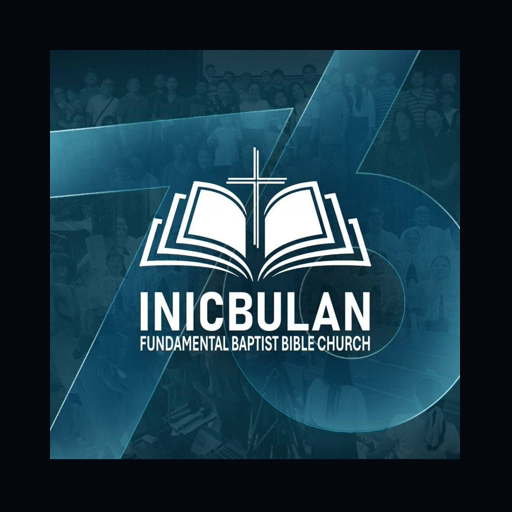
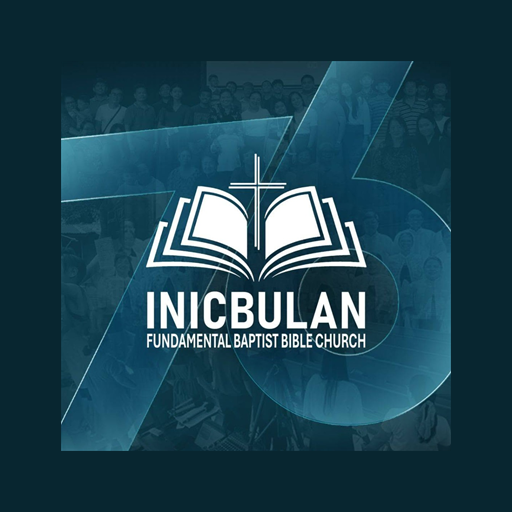
debugging installations

diff --git a/src/components/ServiceSchedule.tsx b/src/components/ServiceSchedule.tsx
@@ -102,6 +102,74 @@ const weeklyServices: WeeklyServiceItem[] = [
   },
 ];
 
+interface ScheduleTableEntry {
+  id: string;
+  day: string;
+  time: string;
+  service: string;
+  linkedCardId: string;
+  matchDay: string;
+}
+
+const scheduleTableEntries: ScheduleTableEntry[] = [
+  {
+    id: 'sun-lifegroup',
+    day: 'Sunday',
+    time: '9:00 AM',
+    service: 'Life Group',
+    linkedCardId: 'sun-lifegroup',
+    matchDay: 'Sunday',
+  },
+  {
+    id: 'sun-worship',
+    day: 'Sunday',
+    time: '10:00 AM',
+    service: 'Worship Service',
+    linkedCardId: 'sun-worship',
+    matchDay: 'Sunday',
+  },
+  {
+    id: 'sun-prayer-fasting',
+    day: 'Sunday',
+    time: '10:00 AM',
+    service: 'Prayer & Fasting Service (Quarterly)',
+    linkedCardId: 'sun-prayer-fasting',
+    matchDay: 'Sunday',
+  },
+  {
+    id: 'wed-prayer',
+    day: 'Wednesday',
+    time: '6:00 PM',
+    service: 'Prayer Meeting',
+    linkedCardId: 'wed-prayer',
+    matchDay: 'Wednesday',
+  },
+  {
+    id: 'fri-cottage',
+    day: 'Friday',
+    time: '6:00 PM',
+    service: 'Cottage Service',
+    linkedCardId: 'fri-cottage',
+    matchDay: 'Friday',
+  },
+  {
+    id: 'sat-paraiso',
+    day: 'Every 2nd Saturday',
+    time: '11:00 AM',
+    service: 'Paraiso Mission',
+    linkedCardId: 'sat-missions',
+    matchDay: 'Saturday',
+  },
+  {
+    id: 'sat-missions',
+    day: 'Saturday',
+    time: '2:00 PM',
+    service: 'Missions',
+    linkedCardId: 'sat-missions',
+    matchDay: 'Saturday',
+  },
+];
+
 // ── 3D Interactive Rectangular Carousel Card Component ──
 interface ScheduleCard3DProps {
   service: WeeklyServiceItem;
@@ -419,10 +487,28 @@ export const ServiceSchedule: React.FC<ServiceScheduleProps> = ({ onOpenVisit: _
     hasEventToday ? todayServices[0].id : null
   );
 
-  // Carousel State: 3 cards visible at a time
+  // Carousel State: responsive cards visible (1 on mobile, 2 on tablet, 3 on desktop)
+  const [cardsPerView, setCardsPerView] = useState(3);
   const [currentIndex, setCurrentIndex] = useState(0);
   const [isPaused, setIsPaused] = useState(false);
   const [isHoveringCard, setIsHoveringCard] = useState(false);
+
+  useEffect(() => {
+    const updateCardsPerView = () => {
+      if (typeof window === 'undefined') return;
+      if (window.innerWidth < 640) {
+        setCardsPerView(1);
+      } else if (window.innerWidth < 1024) {
+        setCardsPerView(2);
+      } else {
+        setCardsPerView(3);
+      }
+    };
+
+    updateCardsPerView();
+    window.addEventListener('resize', updateCardsPerView);
+    return () => window.removeEventListener('resize', updateCardsPerView);
+  }, []);
 
   // 3D Tilt for the Clicked/Expanded Modal Card itself
   const modalCardRef = useRef<HTMLDivElement>(null);
@@ -446,8 +532,13 @@ export const ServiceSchedule: React.FC<ServiceScheduleProps> = ({ onOpenVisit: _
     modalMouseY.set(0);
   };
 
-  // Maximum index so exactly 3 cards remain in view at end of line (6 items - 3 visible = maxIndex 3)
-  const maxIndex = Math.max(0, weeklyServices.length - 3);
+  // Maximum index so all cards remain accessible and viewable
+  const maxIndex = Math.max(0, weeklyServices.length - cardsPerView);
+
+  // Keep currentIndex bounded if cardsPerView changes
+  useEffect(() => {
+    setCurrentIndex((prev) => Math.min(prev, maxIndex));
+  }, [maxIndex]);
 
   const handleNext = useCallback(() => {
     setCurrentIndex((prev) => (prev >= maxIndex ? 0 : prev + 1));
@@ -456,6 +547,31 @@ export const ServiceSchedule: React.FC<ServiceScheduleProps> = ({ onOpenVisit: _
   const handlePrev = useCallback(() => {
     setCurrentIndex((prev) => (prev <= 0 ? maxIndex : prev - 1));
   }, [maxIndex]);
+
+  // Touch swipe gesture listeners for mobile & tablet screens
+  const touchStartXRef = useRef<number | null>(null);
+  const touchStartYRef = useRef<number | null>(null);
+
+  const handleTouchStart = (e: React.TouchEvent) => {
+    touchStartXRef.current = e.touches[0].clientX;
+    touchStartYRef.current = e.touches[0].clientY;
+  };
+
+  const handleTouchEnd = (e: React.TouchEvent) => {
+    if (touchStartXRef.current === null || touchStartYRef.current === null) return;
+    const deltaX = touchStartXRef.current - e.changedTouches[0].clientX;
+    const deltaY = touchStartYRef.current - e.changedTouches[0].clientY;
+
+    if (Math.abs(deltaX) > 40 && Math.abs(deltaX) > Math.abs(deltaY)) {
+      if (deltaX > 0) {
+        handleNext();
+      } else {
+        handlePrev();
+      }
+    }
+    touchStartXRef.current = null;
+    touchStartYRef.current = null;
+  };
 
   // Relaxed auto-traversing timer (6.5s) that pauses on card hover, modal open, or manual pause
   useEffect(() => {
@@ -505,8 +621,8 @@ export const ServiceSchedule: React.FC<ServiceScheduleProps> = ({ onOpenVisit: _
         <div className="ambient-card rounded-2xl sm:rounded-3xl p-3 sm:p-5 mb-12 max-w-2xl mx-auto shadow-lg border border-slate-200/80 dark:border-white/10">
           {/* Mobile Adaptive View (< 640px) */}
           <div className="sm:hidden flex flex-col divide-y divide-slate-200/60 dark:divide-white/5">
-            {weeklyServices.map((s) => {
-              const isTodayEvent = hasEventToday && s.day.toLowerCase() === todayDayName.toLowerCase();
+            {scheduleTableEntries.map((s) => {
+              const isTodayEvent = hasEventToday && s.matchDay.toLowerCase() === todayDayName.toLowerCase();
               const isSelected = activeTableId === s.id;
 
               return (
@@ -514,7 +630,8 @@ export const ServiceSchedule: React.FC<ServiceScheduleProps> = ({ onOpenVisit: _
                   key={s.id}
                   onClick={() => {
                     setActiveTableId(isSelected ? null : s.id);
-                    setExpandedService(s);
+                    const targetCard = weeklyServices.find((card) => card.id === s.linkedCardId);
+                    if (targetCard) setExpandedService(targetCard);
                   }}
                   className={`p-3.5 rounded-xl transition-all duration-200 cursor-pointer ${isTodayEvent
                     ? 'bg-royal-500/15 dark:bg-cobalt-500/20 ring-1 ring-royal-500/40 dark:ring-cobalt-400/50 shadow-sm my-1'
@@ -562,8 +679,8 @@ export const ServiceSchedule: React.FC<ServiceScheduleProps> = ({ onOpenVisit: _
                 </tr>
               </thead>
               <tbody>
-                {weeklyServices.map((s) => {
-                  const isTodayEvent = hasEventToday && s.day.toLowerCase() === todayDayName.toLowerCase();
+                {scheduleTableEntries.map((s) => {
+                  const isTodayEvent = hasEventToday && s.matchDay.toLowerCase() === todayDayName.toLowerCase();
                   const isSelected = activeTableId === s.id;
 
                   return (
@@ -571,7 +688,8 @@ export const ServiceSchedule: React.FC<ServiceScheduleProps> = ({ onOpenVisit: _
                       key={s.id}
                       onClick={() => {
                         setActiveTableId(isSelected ? null : s.id);
-                        setExpandedService(s);
+                        const targetCard = weeklyServices.find((card) => card.id === s.linkedCardId);
+                        if (targetCard) setExpandedService(targetCard);
                       }}
                       className={`group cursor-pointer transition-all duration-300 ${isTodayEvent
                         ? 'bg-royal-500/15 dark:bg-cobalt-500/20 shadow-[0_0_20px_-3px_rgba(59,130,246,0.35)] ring-1 ring-royal-500/40 dark:ring-cobalt-400/50 rounded-xl'
@@ -647,14 +765,18 @@ export const ServiceSchedule: React.FC<ServiceScheduleProps> = ({ onOpenVisit: _
             </div>
           </div>
 
-          {/* Carousel Viewport (Strictly 3 cards visible) */}
-          <div className="overflow-hidden rounded-3xl py-4 -mx-2 px-2">
+          {/* Carousel Viewport (Responsive cards visible: 1 on mobile, 2 on tablet, 3 on desktop) */}
+          <div
+            onTouchStart={handleTouchStart}
+            onTouchEnd={handleTouchEnd}
+            className="overflow-hidden rounded-3xl py-4 -mx-2 px-2 touch-pan-y"
+          >
             <motion.div
               animate={{
-                x: `-${currentIndex * (100 / 3)}%`,
+                x: `-${currentIndex * (100 / cardsPerView)}%`,
               }}
               transition={{
-                duration: 1.05,
+                duration: 0.65,
                 ease: [0.22, 1, 0.36, 1],
               }}
               className="flex"

diff --git a/src/components/Hero.tsx b/src/components/Hero.tsx
@@ -890,28 +890,28 @@ export const Hero: React.FC<HeroProps> = ({ onOpenPrayer, onScrollToSermons }) =
 
                 {/* Dynamic Gathering Schedule Preview */}
                 <div className="bg-slate-50/80 dark:bg-obsidian-850 p-4 sm:p-5 rounded-2xl space-y-2.5 sm:space-y-3">
-                  <div className="flex items-center justify-between text-[11px] font-mono text-slate-400 dark:text-slate-500 pb-1 border-b border-slate-200/60 dark:border-white/5">
-                    <span className="uppercase tracking-wider font-semibold text-slate-600 dark:text-slate-400">
+                  <div className="flex items-center justify-between text-[11px] font-mono text-slate-400 dark:text-slate-500 pb-1 border-b border-slate-200/60 dark:border-white/5 gap-2">
+                    <span className="uppercase tracking-wider font-semibold text-slate-600 dark:text-slate-400 whitespace-nowrap shrink-0">
                       {nextGatheringState.gathering.dayName} Schedule
                     </span>
                     {nextGatheringState.gathering.location && (
-                      <span className="truncate max-w-[170px] text-right">
+                      <span className="truncate text-right min-w-0 pr-1 sm:pr-0">
                         {nextGatheringState.gathering.location}
                       </span>
                     )}
                   </div>
 
                   {nextGatheringState.gathering.scheduleItems.map((item, idx) => (
-                    <div key={idx} className="flex items-center justify-between text-xs gap-3">
+                    <div key={idx} className="flex items-center justify-between text-xs gap-2 sm:gap-3 min-w-0">
                       <span
-                        className={`inline-flex items-center px-3 py-1.5 -ml-2.5 sm:-ml-3 rounded-full font-bold text-xs whitespace-nowrap shrink-0 ${item.isPrimary
+                        className={`inline-flex items-center px-2.5 sm:px-3 py-1 sm:py-1.5 rounded-full font-bold text-xs whitespace-nowrap shrink-0 ${item.isPrimary
                           ? 'bg-royal-500/10 dark:bg-cobalt-500/20 text-royal-600 dark:text-cobalt-400'
                           : 'bg-slate-200/70 dark:bg-obsidian-800 text-slate-600 dark:text-slate-400 font-medium'
                           }`}
                       >
                         {item.time ? `${item.time} - ` : ''}{item.service}
                       </span>
-                      <span className="font-mono text-[11px] text-slate-400 dark:text-slate-500 shrink-0 text-right">
+                      <span className="font-mono text-[11px] text-slate-400 dark:text-slate-500 text-right truncate min-w-0 pr-1.5 sm:pr-0">
                         {item.location}
                       </span>
                     </div>

diff --git a/index.html b/index.html
@@ -9,6 +9,21 @@
   <meta name="description"
     content="INICBULAN FUNDAMENTAL BAPTIST BIBLE CHURCH, INCORPORATED. The Church with an open Bible. Bauan, Batangas." />
 
+  <!-- Open Graph & Social Share Preview Metadata (Ensures iOS Share Sheet shares the website) -->
+  <meta property="og:type" content="website" />
+  <meta property="og:site_name" content="IFBBC" />
+  <meta property="og:title" content="IFBBC — Inicbulan Fundamental Baptist Bible Church" />
+  <meta property="og:description"
+    content="INICBULAN FUNDAMENTAL BAPTIST BIBLE CHURCH, INCORPORATED. The Church with an open Bible. Bauan, Batangas." />
+  <meta property="og:image" content="/hero-poster.jpg" />
+  <meta property="og:image:alt" content="Inicbulan Fundamental Baptist Bible Church" />
+  <meta name="twitter:card" content="summary_large_image" />
+  <meta name="twitter:title" content="IFBBC — Inicbulan Fundamental Baptist Bible Church" />
+  <meta name="twitter:description"
+    content="INICBULAN FUNDAMENTAL BAPTIST BIBLE CHURCH, INCORPORATED. The Church with an open Bible. Bauan, Batangas." />
+  <meta name="twitter:image" content="/hero-poster.jpg" />
+  <link rel="image_src" href="/hero-poster.jpg" />
+
   <!-- PWA Web App Manifest & Mobile Capabilities -->
   <link rel="manifest" href="/manifest.webmanifest" />
   <meta name="theme-color" content="#06090e" />

diff --git a/src/components/DeviceInstallModal.tsx b/src/components/DeviceInstallModal.tsx
@@ -59,7 +59,7 @@ export const DeviceInstallModal: React.FC<DeviceInstallModalProps> = ({
                   <img
                     src={churchLogo}
                     alt="IFBBC App Logo"
-                    className="w-full h-full object-cover"
+                    className="w-full h-full object-contain p-1"
                   />
                   {/* Shiny Specular Shimmer Ray */}
                   <div className="absolute -inset-full top-0 bg-gradient-to-r from-transparent via-white/40 to-transparent animate-nav-shine pointer-events-none" />

diff --git a/src/components/PwaInstallCard.tsx b/src/components/PwaInstallCard.tsx
@@ -109,7 +109,7 @@ export const PwaInstallCard: React.FC = () => {
           <img
             src={churchLogo}
             alt="IFBBC App Logo"
-            className="w-full h-full object-cover"
+            className="w-full h-full object-contain p-1"
           />
           {/* Shiny Specular Shimmer Ray */}
           <div className="absolute -inset-full top-0 bg-gradient-to-r from-transparent via-white/40 to-transparent animate-nav-shine pointer-events-none" />
